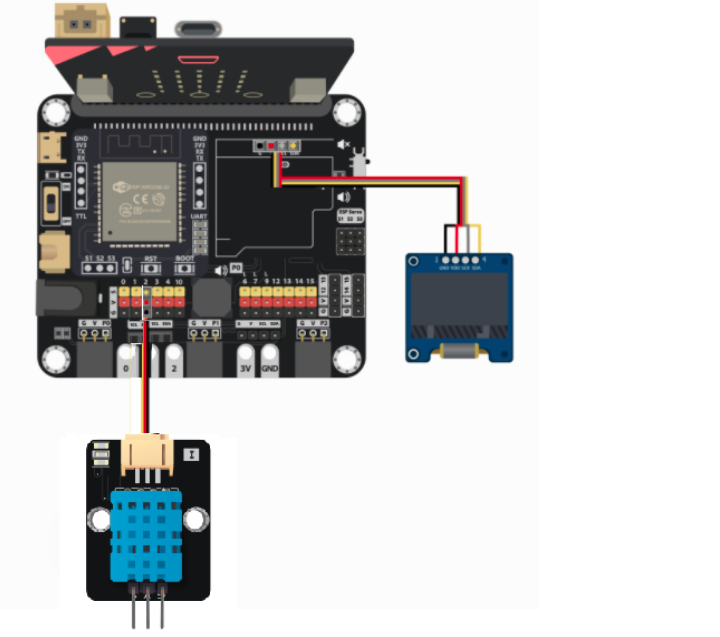
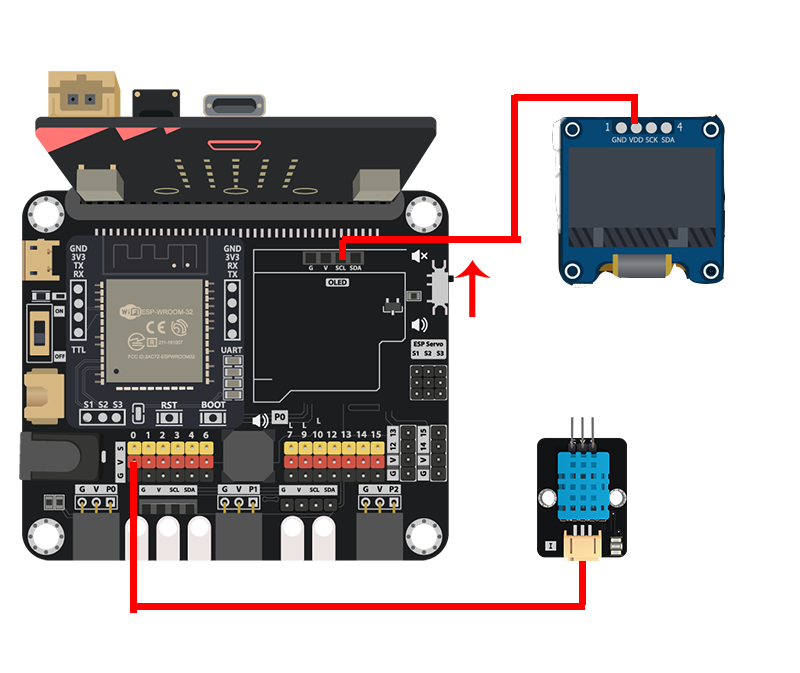
update smarthome case 10 and 11

diff --git a/docs/smartHomeIoT/case10.md b/docs/smartHomeIoT/case10.md
@@ -1,12 +1,12 @@
 # IoT Case 10: Home Health Data Monitoring
 
 Level: ![level](images/level4.png)
-![auto_fit](images/Case10/blank.png)<P>
+![auto_fit](images/Case10/intro.png)<P>
 
 ## Goal
 <HR>
 
-Make a home health data monitoring system by collecting data from the sensors inside the house.<BR><P>
+Make a home health data monitoring system by collecting data from the sensors inside the house. Also use the temperature and humidity value to calculate the IAQ Score as reference.<BR><P>
 
 ## Background
 <HR>
@@ -15,33 +15,36 @@ Make a home health data monitoring system by collecting data from the sensors in
 Health monitoring is the concept of tracking the conditions of different parameters inside the user’s house. From the simplest temperature and humidity data to more advanced detection of CO2, town gas etc, having such system can help make alert for prevention of accident, like town gas leakage or short of oxygen inside the house.<BR><P>
 
 <span id="subtitle">Home health monitoring system operation</span><BR><P>
-In this scenario, integrated temperature and humidity sensor DTH11 is used. It can track and send back the data collected to the main control board for further analysis, constant display and cloud server storage. If the conditions breach certain limits, warnings will be made, else the system will keep silent.<BR><P>
+In this scenario, integrated temperature and humidity sensor DHT11 is used. It can track and send back the data collected to the main control board for further analysis, constant display and cloud server storage. Also the IAQ Score analyst can help to estimate the environment status.<BR><P>
 ![auto_fit](images/Case10/blank.png)<P>
 
 ## Part List
 <HR>
 
-![auto_fit](images/Case10/blank.png)<P>
+![auto_fit](images/Case10/Case10_parts.png)<P>
 
 ## Assembly step
 <HR>
 
 <span id="subtitle">Step 1</span><BR><P>
-* Use M4 screws to install the DHT11 temperature and humidity sensor to C4 cardboard
-* Use M2 screws to install the OLED display to C4 cardboard
-![auto_fit](images/Case10/blank.png)<P>
+* Use M4 screws and nuts to install the DHT11 temperature and humidity sensor to E4 cardboard
+
+* Use M2 screws and nuts to install the OLED display to E4 cardboard
+![auto_fit](images/Case10/Case10_ass1.png)<P>
 
 <span id="subtitle">Step 2</span><BR><P>
-Insert the C4 cardboard on A cardboard, align with holes at A and B2<BR><P>
-![pic_40](images/Case10/blank.png)<P>
+* Insert the E4 cardboard on A cardboard to build a sensor display wall
+
+![auto_fit](images/Case10/blank.png)<P>
 
 
 ## Hardware connect
 <HR>
 
-1. Connect the temperature and humidity sensor DHT11 to P2
-2. Pull down the buzzer switch to connect the buzzer
+1. Connect the temperature and humidity sensor DHT11 to P0
+2. Pull up the buzzer switch to disconnect the buzzer
 3. Connect the OLED display to IoT:bit I2C port with extend cable
+
 
 ![auto_fit](images/Case10/Case10_hardware.png)<P>
 
@@ -49,7 +52,7 @@ Insert the C4 cardboard on A cardboard, align with holes at A and B2<BR><P>
 <HR>
 
 <span id="subtitle">Step 1. Create Thingspeak channel</span><BR><P>
-* Go the https://thingspeak.com/ create an account and create a channel
+* Go the [Thingspeak](https://thingspeak.com) create an account and create a channel
 ![auto_fit](images/Case10/Case10_p1.png)<P>
 
 <span id="subtitle">Step 2. Get channel API</span><BR><P>
@@ -60,63 +63,73 @@ Insert the C4 cardboard on A cardboard, align with holes at A and B2<BR><P>
 ## Programming (MakeCode)
 <HR>
 
-<span id="subtitle">Step 1. Initialize OLED, IoT:bit and connect to WiFi, create and initialize variable</span><BR><P>
-* Create variable `counter`
-![auto_fit](images/Case10/Case10_p3.png)<P>
+<span id="subtitle">Step 1. Initialize OLED, IoT:bit and connect to WiFi, create and initialize variables</span><BR><P>
 
 * Snap `Initialize OLED with width:128, height: 64` to `on start`
 * Snap `Initialize IoT:bit TX P16 RX P8` from `IoT:bit` to `on start`
-* Snap `Set WiFi to ssid smarthon_ss8 pwd Qw64811051` to `on start`
-* Initialize the variable `counter` to 0
-![auto_fit](images/Case10/Case10_p4.png)<P>
+* Snap `Set WiFi to ssid smarthon pwd 12345678` to `on start`
+* Create and initialize the variables `temperature`, `humidity` and `iaq_score` to `0`
+![auto_fit](images/Case10/Case10_p3.png)<P>
 
 <span id="subtitle">Step 2. Show icon “tick” after WiFi connection</span><BR><P>
 * In `On WiFi connected`, put a `show icon tick` get notice after WiFi is connected.
-![pic_60](images/Case10/Case10_p5.png)<P>
+![pic_60](images/Case10/Case10_p4.png)<P>
 
-<span id="subtitle">Step 3. Sending data to Thingspeak</span><BR><P>
-* Create a new function `send to Thingspeak`
-* Put a `if` statement inside
-* In the condition, use `WiFI connect?` to make sure the internet was connected
-* Sending data to thingspeak by using `Send Thingspeak key* XXXXX field1 value xxx field2 xxx ....`, fill in the write API of your channel and the value that want to upload
-* reset the `counter` variable to `0`
-![pic_80](images/Case10/Case10_p6.png)<P>
+<span id="subtitle">Step 3. Create the function `check_condtion`</span><BR><P>
+* Create a new function `check_condition`
+* Put nested `if-else` statement inside the function
+* The first condition is `iaq_score < 20`, then `show string Very uncomfortable` in the segment
+* The second condition is `iaq_score < 40`, then `show string Uncomfortable` in the segment
+* The third condition is `iaq_score < 60`, then `show string Discomfortable` in the segment
+* The fourth condition is `iaq_score < 80`, then `show string Comfortable` in the segment
+* The fifth condition is `iaq_score <= 100`, then `show string Very comfortable` in the segment
 
-<span id="subtitle">Step 4. Create two warning function</span><BR><P>
-* Create a function called `warning_dry`
-* Show string `Humidity is too low!` 
-* play the warning sound by `play melody xxx at tempo 500 bpm`
-* Create another function called `warning_hot`
-* Repeat again the steps.
+![pic_80](images/Case10/Case10_p5.png)<P>
 
-![auto_fit](images/Case10/Case10_p7.png)<P>
+<span id="subtitle">Step 4. Read the Temperature and Humidity sensor data</span><BR><P>
+* In `Forever`, put a `if` statement with condition `WiFi connected?` to make sure connected to interent before uploading to thingspeak
+* Use `Read Temperature & Humidity sensor at pin P0` to read the data from DHT11 Temperature and Humidity Sensor
+* After read the DHT11 data, use the three functions to get the result and set to the variable
+1. `Set temperature to Get Temperature °C` for temperature
+2. `Set humidity to Get Humidity ` for humidity
+3. `Set iaq_score to Get IAQ Score` for iaq_score
+![auto_fit](images/Case10/Case10_p6.png)<P>
 
-<span id="subtitle">Step 4. Read and show the data</span><BR><P>
-* In `Forever`, put `set humd to DHT11 Read humidity at pin P2` to read humidity
-* Put `set temp to DHT11 Read temperature at pin P2` to read temperature
-* add up the counter by `change counter by 1`
-* Clear the display before each update by `clear OLED display`
-* Show the temperature with formatted text by `show string join Temperature: temp C`
-* Show the humidity with formatted text by `show string join humidity: humd %`
-* ![auto_fit](images/Case10/Case10_p8.png)<P>
+<span id="subtitle">Step 4. Show the data on display</span><BR><P>
+* Clear the display before each times update by `clear OLED display`
+* Show the three variables respectively, with some text explanation 
+1. `show string join Temperature: temperature` for temperature
+2. `show string join Humidity: humidity %` for humidity
+3. `show string Join IAQ Score: iaq_score` for iaq_score
+* ![auto_fit](images/Case10/Case10_p7.png)<P>
 
-<span id="subtitle">Step 5. Examine and send the data</span><BR><P>
-* Add a `if` statement with condition `counter >= 15`
-* Put `call send to Thingspeak` function to start the upload process
-* Add a `if` statement with condition `temp > 28`
-* Put `call warning_hot` function to play the alert sound
-* Add a `if statement` with condition `humd <= 50`
-* Put `call warning_dry` function to play the alert sound
-* Add `pause(ms) 1000` to read and check data for each second
+<span id="subtitle">Step 5. Analyst the environment status</span><BR><P>
+* Run the `check_condition` function to summarize the IAQ Score result
+
+![auto_fit](images/Case10/Case10_p8.png)<P>
+
+<span id="subtitle">Step 6. Upload to Thingspeak</span><BR><P>
+* Send the data to Thingspeak by `Send Thingspeak key XXXX field1 value XXX ...`, fill in the `write API key` from the Thingspeak channel and the `values` need to be upload
+* After uploading the data to Thingspeak, wait for 15 second to avoid upload too frequently by `pause(ms) 15000`, then start another Reading and uploading.
 
 ![auto_fit](images/Case10/Case10_p9.png)<P>
 
 
+<span id="subtitle">Step 7. Check Thingspeak upload status</span><BR><P>
+* To check the uploading status, use `On thingspeak Uploaded` to get the uploading result
+* `Insert newline` for better visual effect
+* Use the `Status` and `Error_code` from block placeholder respectively to showing some text explanation
+1. `show string join Thingseak: Status` for Upload status
+2. `show string join Error: Error_code` for Error code if upload failed
+
+![auto_fit](images/Case10/Case10_p10.png)<P>
+
+
 <span id="subtitle">Full Solution<BR><P>
 
-MakeCode: [https://makecode.microbit.org/_01h9FpcbVicW](https://makecode.microbit.org/_01h9FpcbVicW)<BR><P>
+MakeCode: [https://makecode.microbit.org/_4eieTk2TUda1](https://makecode.microbit.org/_4eieTk2TUda1)<BR><P>
 You could also download the program from the following website:<BR>
-<iframe src="https://makecode.microbit.org/#pub:_01h9FpcbVicW" width="100%" height="500" frameborder="0"></iframe>
+<iframe src="https://makecode.microbit.org/#pub:_4eieTk2TUda1" width="100%" height="500" frameborder="0"></iframe>
 
 
 
@@ -125,14 +138,16 @@ You could also download the program from the following website:<BR>
 ## Result
 <HR>
 
-After turn on, sensors will start collecting temperature and humidity data for each second. <BR>For every 15 times data collection, it will upload to Thingspeak.<BR>
-When the temperature or humidity value is over the range, it will trigger the warning alert.
+The OLED show the temperature, humidity, IAQ Score and the environment condition based on IAQ Score
+![auto_fit](images/Case10/Case10_result1.png)<P>
+After upload, show the uploading information
 <P>
 
-![auto_fit](images/Case10/Case10_result.png)<P>
+![auto_fit](images/Case10/Case10_result2.png)<P>
 
 
 ## Think
 <HR>
 
-Q1. How to make use of the data to analyst the home environment? (for example, checking the time period that mostly trigger alert?)
+1. Apart from temperature and humidity, what elements do you think are essential to be included in a home health monitoring system? (E.G CO2 level? PM2.5 value?)
+2. What function do you think the system can also include if it is to be used in a real home? (E.G Alert when the condition is too bad for health?)

diff --git a/docs/smartHomeIoT/case11.md b/docs/smartHomeIoT/case11.md
@@ -1,1 +1,149 @@
 # IoT Case 11: Kitchen Safety Flame Monitoring Alert
+
+Level: ![level](images/level4.png)
+![auto_fit](images/Case11/intro.png)<P>
+
+## Goal
+<HR>
+
+Make an automatic fire alert system by detecting the existence of fire nearby.
+
+## Background
+<HR>
+
+<span id="subtitle">What is a smart kitchen fire alert system?</span><BR><P>
+Smart kitchen fire alert system is an alert system that reacts towards the presence of fire in the surrounding areas.
+<BR><P>
+<span id="subtitle">Kitchen Safety Flame Monitoring Alert principle</span><BR><P>
+By installing a fire sensor in the area, the system will trigger an alarm and send a IFTTT notification to the house owner when there is fire detected in the sensor’s sight.
+<BR><P>
+<!-- 
+![auto_fit](images/Case11/Concept-diagram-Case11.png)<P> -->
+
+## Part List
+<HR>
+
+![auto_fit](images/Case11/blank.png)<P>
+ 
+## Assembly step
+<HR>
+
+<span id="subtitle">Step 1</span><BR><P>
+Install the flame sensor to the wall<BR><P>
+![auto_fit](images/Case11/Case11_ass1.png)<P>
+<span id="subtitle">Step 2</span><BR><P>
+Install the Multi-Color LED to the wall
+<BR><P>
+![auto_fit](images/Case11/Case11_ass2.png)<P>
+
+
+## Hardware connect
+<HR>
+
+1. Connect the flame sensor to P2
+2. Connect the Multi-Color LED to P1
+3. Pull down the buzzer switch to connect buzzer
+
+![auto_fit](images/Case11/Case11_hardware.png)<P>
+
+
+## IoT (IFTTT)
+<HR>
+
+### Part 1: Setup IFTTT
+1. Create a IFTTT account and login
+2. Create a new Applet
+3. In the IF, search "Webhooks" and click the Webhooks application<BR>
+![auto_fit](images/Case11/Case11_iot1.png)<P>
+4. Choose the "Received a web request" and enter the event name "fire"<BR>
+![auto_fit](images/Case11/Case11_iot2.png)<P>
+5. In the THEN, search "Notifications" and click the notifications application
+6. Choose the "Send a notification from the IFTTT App"<BR>
+![auto_fit](images/Case11/Case11_iot3.png)<P>
+7. After the applet is finish setup, click the Webhooks icon -> documentation<BR>
+![auto_fit](images/Case11/Case11_iot4.png)<P>
+8. Copy the Key<BR>
+![auto_fit](images/Case11/Case11_iot5.png)<P>
+<HR>
+<H4>Optional: Use email as notification method</H4>
+
+In the THEN field, search for the “email” and use it to replace the “notifications” in previous step
+![auto_fit](images/Case11/Case11_iot6.png)<P><HR>
+
+### Part 2: Install the IFTTT App on smartphone
+1. Go to play store or app store to search and download the IFTTT App
+![auto_fit](images/Case11/Case11_iot7.png)<P>
+2. Login to your IFTTT account
+![auto_fit](images/Case11/Case11_iot8.png)<P>
+
+## Programming (MakeCode)
+<HR>
+
+<span id="subtitle">Step 1. Initialize OLED, IoT:bit and connect to WiFi, create variable</span><BR><P>
+* Snap `Initialize OLED with width:128, height: 64` to `on start`
+* Snap `Initialize IoT:bit TX P16 RX P8` from `IoT:bit` to `on start`
+* Snap `Set Wi-Fi to ssid pwd` from `IoT:bit`
+* Enter your Wi-Fi name and password. Here we set `smarthon` as `SSID` and `12345678` as `password`
+* Snap `Set strip to NeoPixel at pin P1 with 1 leds as RGB(GRB format)`
+![pic_60](images/Case11/Case11_p1.png)<P>
+
+<span id="subtitle">Step 2. Show icon “tick” after WiFi connection</span><BR><P>
+* Snap `show icon` from `basic` to `On WiFi connected` and select icon `tick`
+![pic_50](images/Case11/Case11_p2.png)<P>
+
+<span id="subtitle">Step 3. Check the flame sensor result and action on OLED display</span><BR><P>
+* In the `Forever`, put a `if` statement with condition `Get flame detection at Pin P2`
+* In the `if` segment, that's means fire was been detected. 
+* Clear the OLED diplay before each update by `clear OLED display`
+* show the warning message by `show string Flame detected!`
+![pic_70](images/Case11/Case11_p3.png)<P>
+
+<span id="subtitle">Step 4. Action on Warning LED</span><BR><P>
+* The LED should be blinking to telling dangerous 
+* Put `strip show color red` to turn on the LED in red color
+* Add a `pause (ms) 100` to wait for 0.1 second
+* Put `strip show color black` to turn off the LED
+* Pause for 0.1 second again
+![auto_fit](images/Case11/Case11_p4.png)<P>
+
+<span id="subtitle">Step 5. Action on IFTTT</span><BR><P>
+* Before sending the IFTTT message, need to check the network state of IoT:bit
+* Put a `if` statement with `WiFi connected?` condition
+* Put a `Send IFTTT key* XXXXXXXXX event_name* XXXXX ....`inside the `if` segment
+* Fill in the IFTTT key from your Webhooks and the Applet's event_name
+![pic_50](images/Case11/Case11_p5.png)<P>
+
+<span id="subtitle">Step 6. Make the alert warning sound</span><BR><P>
+* Play the alert warning sound from the buzzer by `play tone High B for 2 beat`
+![pic_50](images/Case11/Case11_p6.png)<P>
+
+<span id="subtitle">Step 7. Know the Upload result</span><BR><P>
+* To check the upload state, use the `On IFTTT Uploaded` to get the sending result
+* Inside the `On IFTTT Uploaded`, use OLED display to show the information
+* Clear the OLED display before each update by `clear OLED display`
+* Show upload state by `show string join IFTTT: Status`, the `Status` value is from the function's placeholder
+* * Show error_code by `show string join Error: Error_code`, the `Error_code` value is from the function's placeholder
+![pic_50](images/Case11/Case11_p7.png)<P>
+
+
+<span id="subtitle">Full Solution<BR><P>
+MakeCode: [https://makecode.microbit.org/_JY6euUMkqWFi](https://makecode.microbit.org/_JY6euUMkqWFi)<BR><P>
+You could also download the program from the following website:<BR>
+<iframe src="https://makecode.microbit.org/#pub:_JY6euUMkqWFi" width="100%" height="500" frameborder="0"></iframe>
+
+
+
+
+## Result
+<HR>
+
+When the flame source is detected by the flame sensor, it will trigger to blink the LED, making alert sound, and send the warning notification to IFTTT
+<BR><P>
+![auto_fit](images/Case11/Case11_result1.png)<P>
+![auto_fit](images/Case11/Case11_result2.png)<P>
+
+## Think
+<HR>
+
+1. Other than warning, any task we can do when we detect the flame? (e.g add a fan or sprinkler to extinguish the fire, call the police?)
+<BR><P>
